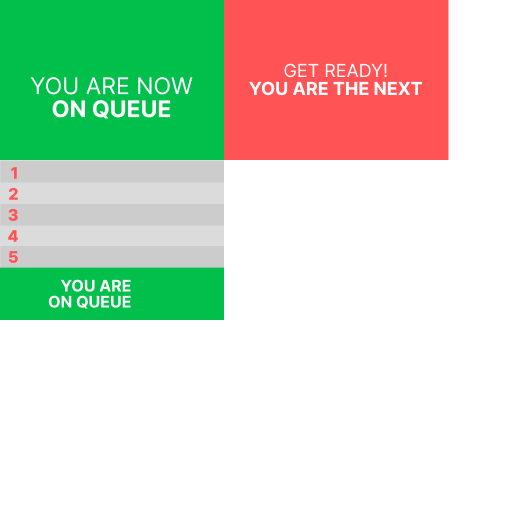
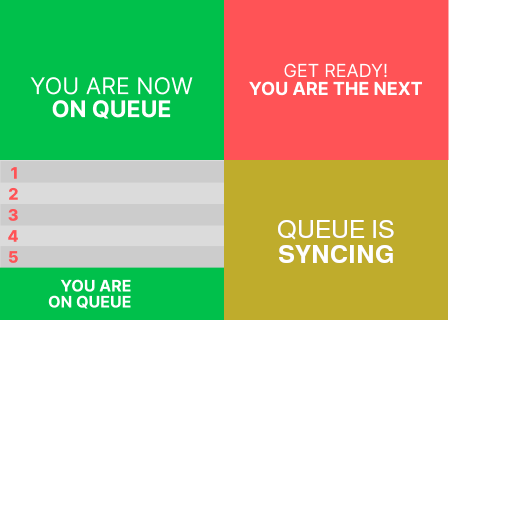
feat: new syncing display

Changed region(s): [[0.4375, 0.3125, 0.875, 0.625]]

diff --git a/src/game.ts b/src/game.ts
@@ -1,9 +1,9 @@
 import { Quaternion, Vector3 } from '@dcl/sdk/math'
 import { Animator, AudioSource, Billboard, ColliderLayer, EasingFunction, Entity, GltfContainer, InputAction, MeshCollider, MeshRenderer, PBRealmInfo, PBTween, RealmInfo, Schemas, Transform, TransformType, Tween, TweenSequence, VisibilityComponent, engine, pointerEventsSystem } from '@dcl/sdk/ecs'
 
-import { myProfile, syncEntity, isStateSyncronized } from '@dcl/sdk/network'
-import players, { getPlayer } from '@dcl/sdk/players'
-import { queue, sceneParentEntity, ui, progress, StartGameButtonCheck } from "@dcl-sdk/mini-games/src"
+import { syncEntity } from '@dcl/sdk/network'
+import { getPlayer } from '@dcl/sdk/players'
+import { queue, sceneParentEntity, ui, progress } from "@dcl-sdk/mini-games/src"
 
 import * as utils from "@dcl-sdk/utils"
 
@@ -56,7 +56,7 @@ export function initGame() {
   initPlanks()
 
   // start game button
-  const StartGameButton = new ui.MenuButton(
+  new ui.MenuButton(
     {
       parent: sceneParentEntity,
       position: Vector3.create(-3.74, 1.03, 0),
@@ -70,7 +70,6 @@ export function initGame() {
       queue.addPlayer()
     }
   )
-  StartGameButtonCheck(StartGameButton)
 
   gameAreaCollider = engine.addEntity()
 
